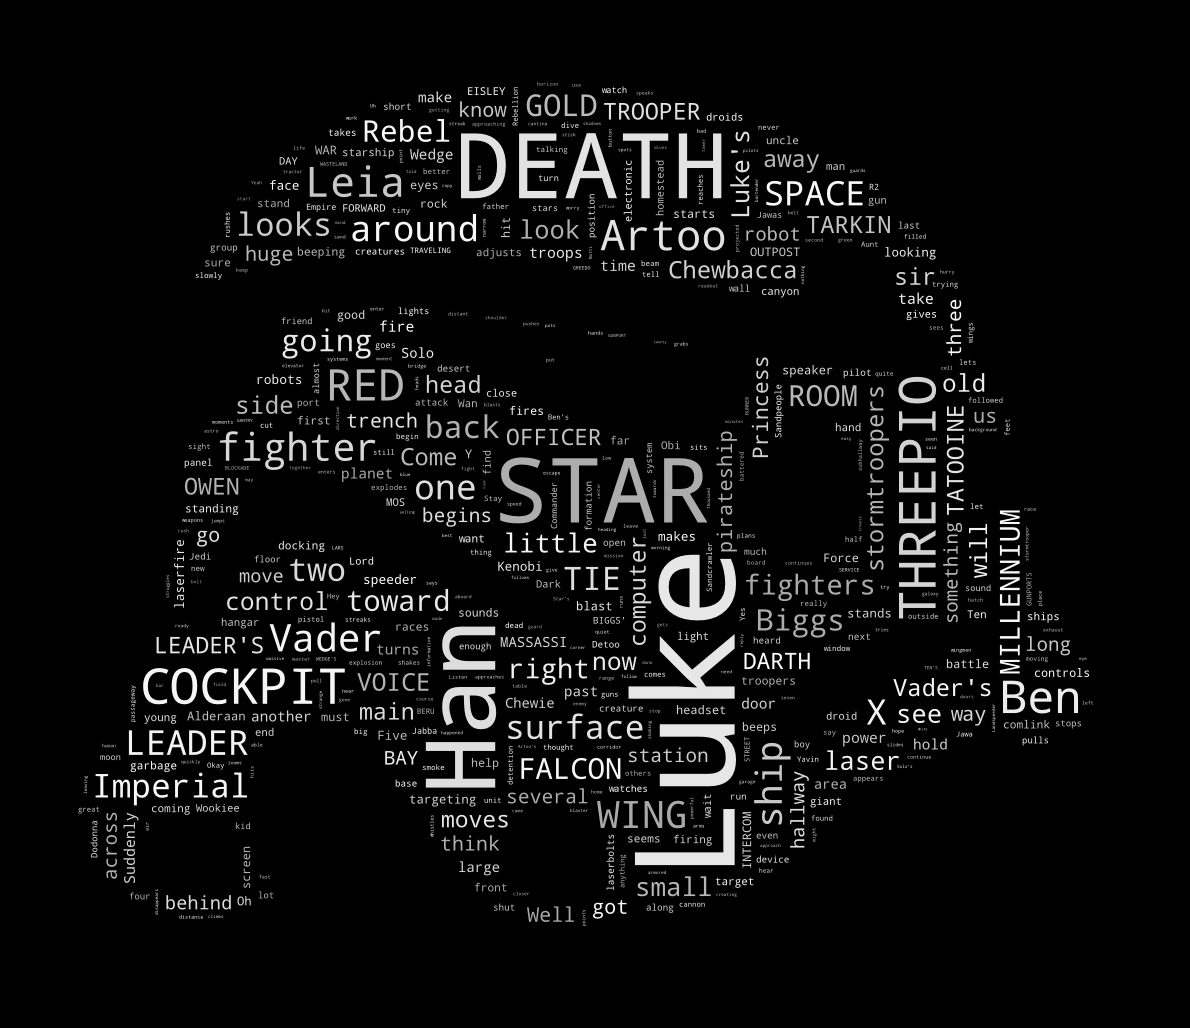
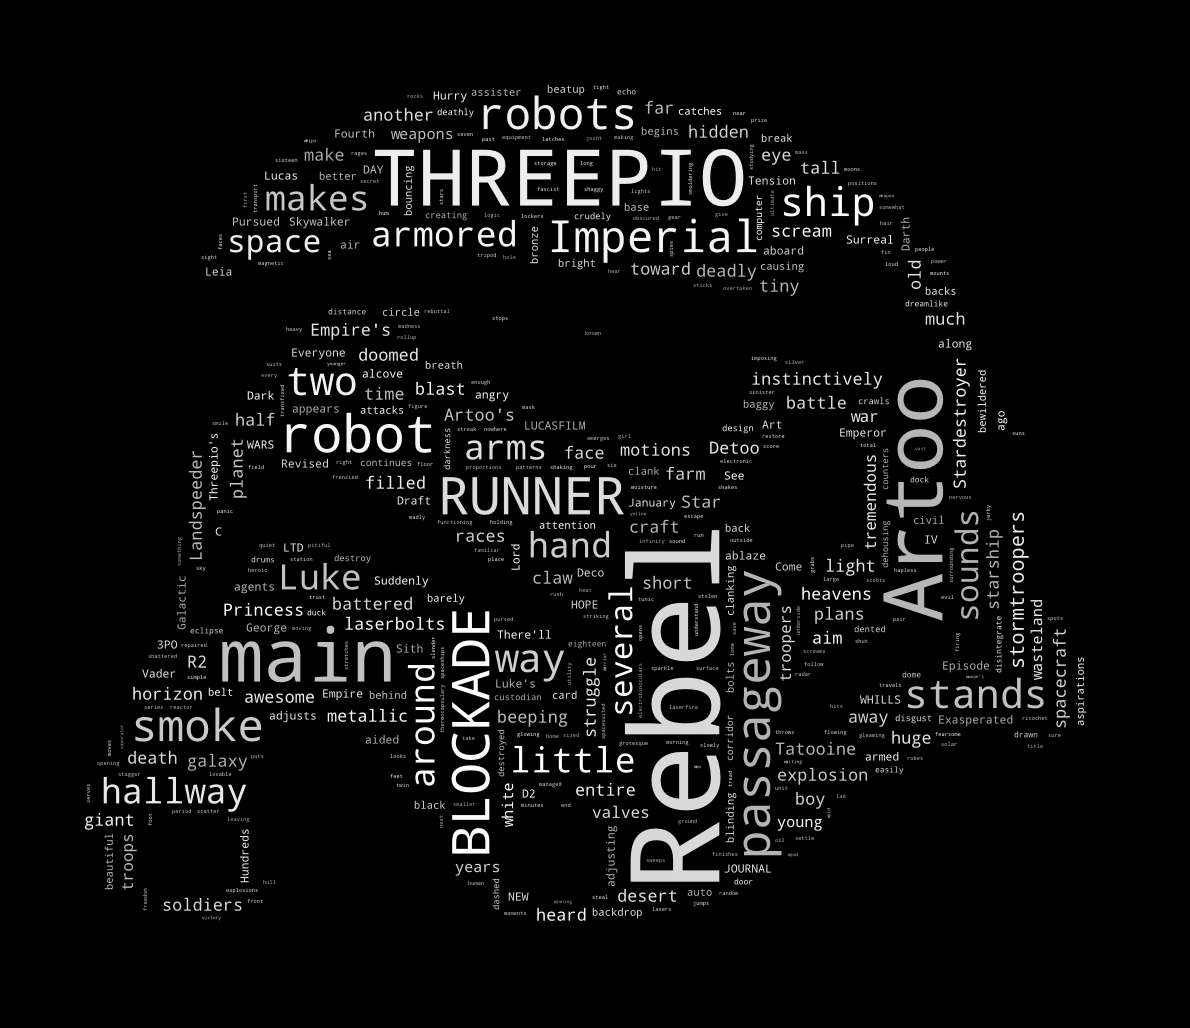
Include and use a default list of words to exclude from word clouds

Changed region(s): [[0.0622, 0.0623, 0.9328, 0.9027]]

diff --git a/examples/custom_colors/main.rs b/examples/custom_colors/main.rs
@@ -1,29 +1,26 @@
 use std::fs;
 use std::collections::HashSet;
-use wcloud::{Tokenizer, WordCloud, WordCloudSize, Word};
+use wcloud::{Tokenizer, WordCloud, WordCloudSize, Word, DEFAULT_EXCLUDE_WORDS_TEXT};
 use rand::Rng;
 use rand::rngs::StdRng;
 use palette::{Pixel, Srgb, Hsl, IntoColor};
 use image::Rgb;
 
 fn main() {
-    let script_path = "a_new_hope.txt";
+    let script_path = "examples/custom_colors/a_new_hope.txt";
     let script_text = fs::read_to_string(script_path)
         .expect("Unable to find a_new_hope.txt")
         .replace("HAN", "Han")
         .replace("LUKE'S", "Luke");
 
-    let exclude_words_path = "python_stopwords";
-    let exclude_words = fs::read_to_string(exclude_words_path)
-        .expect(&format!("Unable to read exclude words file \'{}\'", exclude_words_path));
-    let mut filter = exclude_words.split("\n")
+    let mut filter = DEFAULT_EXCLUDE_WORDS_TEXT.split("\n")
         .collect::<HashSet<_>>();
 
     filter.insert("int");
     filter.insert("ext");
 
     let tokenizer = Tokenizer::default()
-        .with_max_words(0)
+        .with_max_words(1000)
         .with_filter(filter);
 
     let wordcloud = WordCloud::default()
@@ -31,7 +28,7 @@ fn main() {
         .with_word_margin(10)
         .with_rng_seed(1);
 
-    let mask_path = "examples/stormtrooper_mask.png";
+    let mask_path = "examples/custom_colors/stormtrooper_mask.png";
     let mask_image = image::open(mask_path).unwrap().to_luma();
     let mask = WordCloudSize::FromMask(mask_image);
 
@@ -52,6 +49,6 @@ fn main() {
 
     let wordcloud_image = wordcloud.generate_from_text_with_color_func(&script_text, mask, 1.0, color_func);
 
-    wordcloud_image.save("examples/a_new_hope.png")
+    wordcloud_image.save("examples/custom_colors/a_new_hope.png")
         .expect("Unable to save image to examples/a_new_hope.png");
 }

diff --git a/src/tokenizer.rs b/src/tokenizer.rs
@@ -1,6 +1,9 @@
 use regex::{Regex, Match};
 use std::collections::{HashSet, HashMap};
 
+// TODO: Use lazy_static or PHF to make this a HashSet?
+pub const DEFAULT_EXCLUDE_WORDS_TEXT: &str = include_str!("../exclude_words.txt");
+
 pub struct Tokenizer {
     pub regex: Regex,
     filter: HashSet<String>,
@@ -217,6 +220,26 @@ mod tests {
 
         let expected: HashMap<&str, usize> = vec![
             ("LUKE", 12)
+        ].into_iter().collect();
+
+        assert_eq!(frequencies.0, expected);
+    }
+
+    #[test]
+    fn filter_works() {
+        let words = "The quick brown fox jumps over the lazy dog. The dog was otherwise very fine.";
+        let filter = DEFAULT_EXCLUDE_WORDS_TEXT
+            .split("\n")
+            .collect::<HashSet<_>>();
+
+        let tokenizer = Tokenizer::default()
+            .with_filter(filter);
+        let frequencies = tokenizer.get_word_frequencies(words);
+
+        println!("original words: {:?} changed: {:?}", words, frequencies.0);
+
+        let expected: HashMap<&str, usize> = vec![
+            ("fox", 1), ("brown", 1), ("dog", 2), ("lazy", 1), ("jumps", 1), ("fine", 1), ("quick", 1)
         ].into_iter().collect();
 
         assert_eq!(frequencies.0, expected);

diff --git a/src/main.rs b/src/main.rs
@@ -1,16 +1,12 @@
 use std::io::{self, Read, stdout};
-use wcloud::{Tokenizer, WordCloud, WordCloudSize, Word};
+use wcloud::{Tokenizer, WordCloud, WordCloudSize, DEFAULT_EXCLUDE_WORDS_TEXT};
 use clap::{Arg, App};
 use regex::Regex;
 use std::fs;
 use std::collections::HashSet;
 use image::codecs::png::PngEncoder;
-use image::{ColorType, Rgb};
+use image::{ColorType};
 use ab_glyph::FontVec;
-use rand::rngs::StdRng;
-use rand::Rng;
-use palette::{Pixel, Srgb, Hsl, IntoColor};
-
 
 const VERSION: &'static str = env!("CARGO_PKG_VERSION");
 
@@ -124,7 +120,9 @@ fn main() {
             .expect(&format!("Unable to read exclude words file \'{}\'", exclude_words_path))
     }
     else {
-        String::new()
+        // Default exclude list taken from the WordCloud for Python project
+        // https://github.com/amueller/word_cloud/blob/master/wordcloud/stopwords
+        DEFAULT_EXCLUDE_WORDS_TEXT.to_string()
     };
 
     if !exclude_words.is_empty() {

diff --git a/src/lib.rs b/src/lib.rs
@@ -7,7 +7,7 @@ mod text;
 use text::GlyphData;
 mod sat;
 mod tokenizer;
-pub use tokenizer::Tokenizer;
+pub use tokenizer::{Tokenizer, DEFAULT_EXCLUDE_WORDS_TEXT};
 
 use rand::{Rng, thread_rng, SeedableRng};
 use rand::rngs::StdRng;
